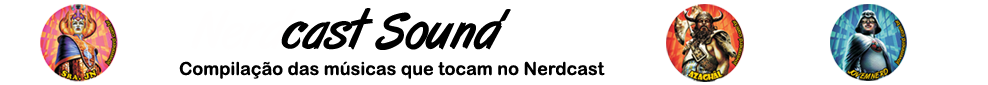
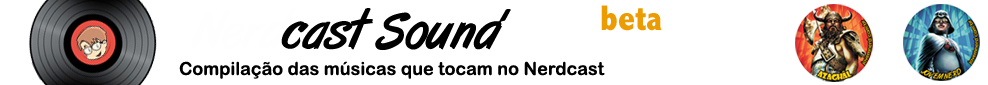
Last tweaks. Proper routing, blog link, version info, new header
git-svn-id: https://svn.rafaeldohms.com.br/nerdtracker/trunk@35 93a5328c-a2d4-4e16-a3fa-6929b7865b51

diff --git a/public/stylesheets/nerdtrack.css b/public/stylesheets/nerdtrack.css
@@ -48,6 +48,12 @@ A IMG{
 #loginbar a{ color: #FFFFFF; text-decoration: none; } 
 #loginbar a:hover;{ color: #FFFFFF; text-decoration: underline;} 
 
+#loginbar .version_info{
+	float: left;
+	font-size: .7em;
+	color: #FFF;
+}
+
 #header{
 	width:988px;
 	height:85px;

diff --git a/config/deploy.rb b/config/deploy.rb
@@ -6,9 +6,7 @@ set :application, 'nerdtrack.com.br'  # Your app's location (domain or sub-domai
 set :applicationdir, "/home/#{user}/#{application}"  # The standard Dreamhost setup
 
 # version control config
-set :scm_username, 'rdohms'
-set :scm_password, 'YOUR_SVN_PASSWORD'
-set :repository, "https://svn.rafaeldohms.com.br/nerdtracker/trunk"
+set :repository, "https://rdohms@svn.rafaeldohms.com.br/nerdtracker/trunk"
 
 # roles (servers)
 role :web, domain
@@ -25,11 +23,13 @@ default_run_options[:pty] = true  # Forgo errors when deploying from windows
 set :chmod755, "app config db lib public vendor script script/* public/disp*"
 set :use_sudo, false
 
+
+#Configure Sym Link for DB config
 after 'deploy:update_code', 'deploy:symlink_db'
 
 namespace :deploy do
   desc "Symlinks the database.yml"
   task :symlink_db, :roles => :app do
-    run "ln -nfs #{deploy_to}/config/environments/sensible/database.yml #{release_path}/config/database.yml"
+    run "ln -nfs #{release_path}/config/environments/sensible/database.yml #{release_path}/config/database.yml"
   end
 end

diff --git a/config/routes.rb b/config/routes.rb
@@ -43,6 +43,21 @@ ActionController::Routing::Routes.draw do |map|
   
   map.root :controller => 'episodios'
 
+
+  map.sign_out 'sign_out',
+    :controller => 'sessions',
+    :action     => 'destroy',
+    :method     => :delete
+    
+    
+  map.contato 'contato',
+    :controller => 'nerdtrack',
+    :action     => 'contato'
+
+  map.sobre 'sobre',
+    :controller => 'nerdtrack',
+    :action     => 'sobre'
+    
   # See how all your routes lay out with "rake routes"
 
   # Install the default routes as the lowest priority.

diff --git a/config/environment.rb b/config/environment.rb
@@ -3,6 +3,9 @@
 # Specifies gem version of Rails to use when vendor/rails is not present
 RAILS_GEM_VERSION = '2.3.4' unless defined? RAILS_GEM_VERSION
 
+#Version Info
+NERDTRACK_VERSION = "Beta 0.5"
+
 # Bootstrap the Rails environment, frameworks, and default configuration
 require File.join(File.dirname(__FILE__), 'boot')
 

diff --git a/app/controllers/sessions_controller.rb b/app/controllers/sessions_controller.rb
@@ -1,0 +1,17 @@
+class SessionsController < Clearance::SessionsController 
+
+  private 
+
+  def url_after_create
+    root_url
+  end
+
+  def flash_success_after_destroy
+    flash[:success] = translate(:signed_out, :default =>  "Signed out.")
+  end
+
+  def url_after_destroy
+    root_url
+  end
+
+end

diff --git a/test/functional/sessions_controller_test.rb b/test/functional/sessions_controller_test.rb
@@ -1,0 +1,8 @@
+require 'test_helper'
+
+class SessionsControllerTest < ActionController::TestCase
+  # Replace this with your real tests.
+  test "the truth" do
+    assert true
+  end
+end

diff --git a/test/unit/helpers/sessions_helper_test.rb b/test/unit/helpers/sessions_helper_test.rb
@@ -1,0 +1,4 @@
+require 'test_helper'
+
+class SessionsHelperTest < ActionView::TestCase
+end

diff --git a/app/helpers/sessions_helper.rb b/app/helpers/sessions_helper.rb
@@ -1,0 +1,2 @@
+module SessionsHelper
+end
